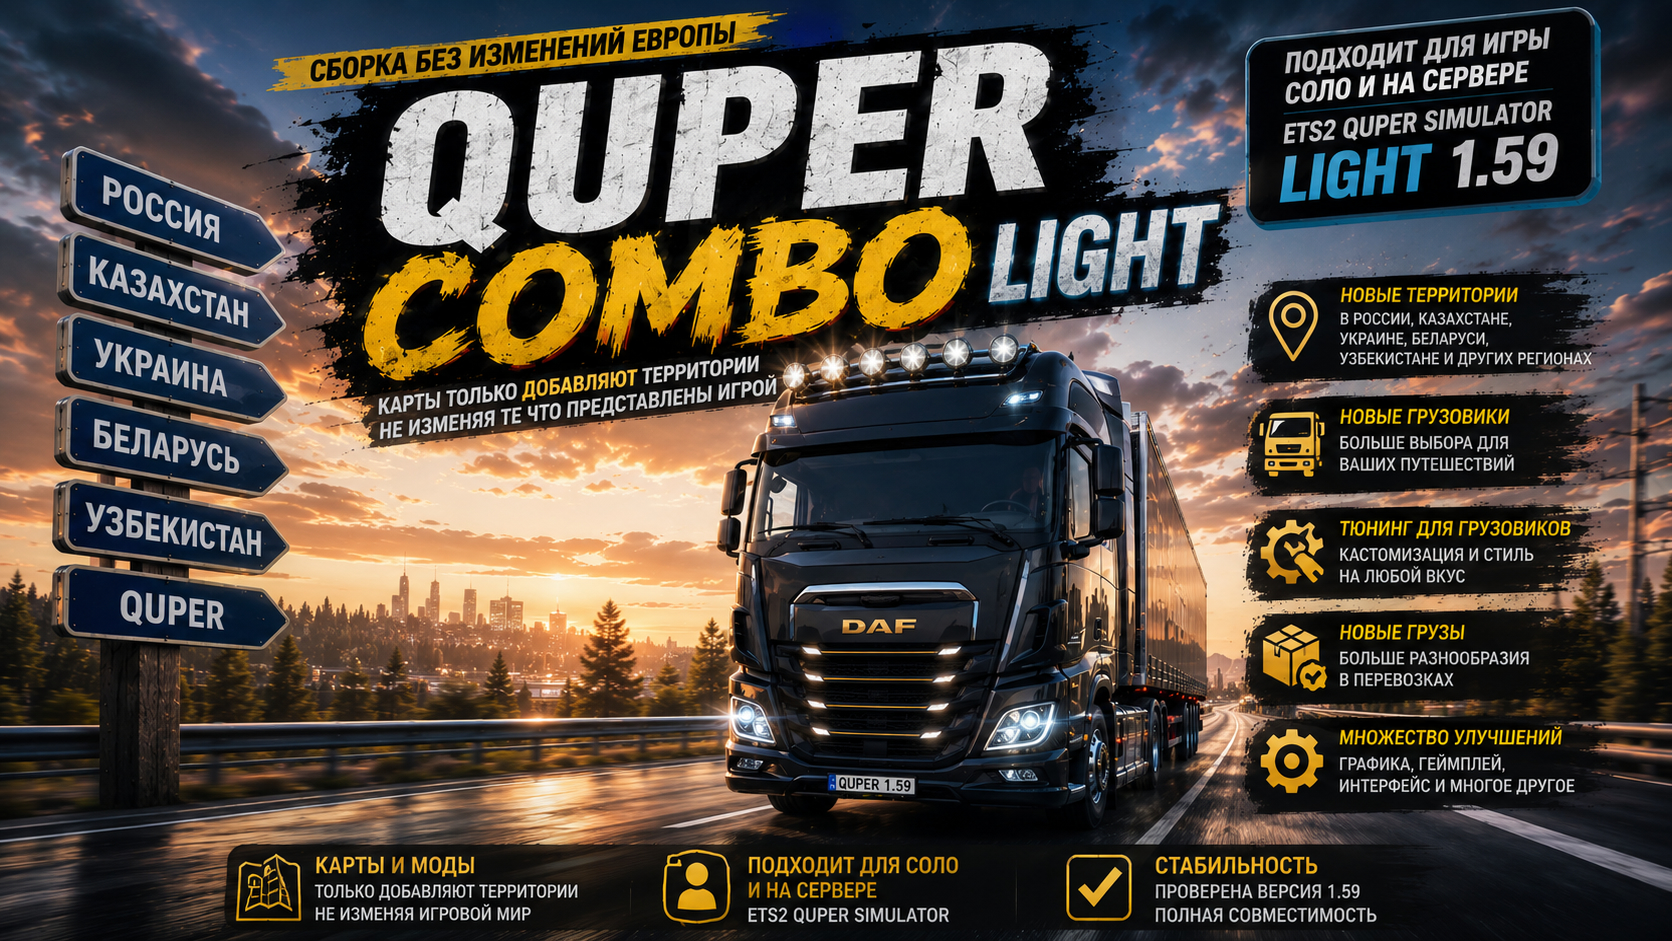
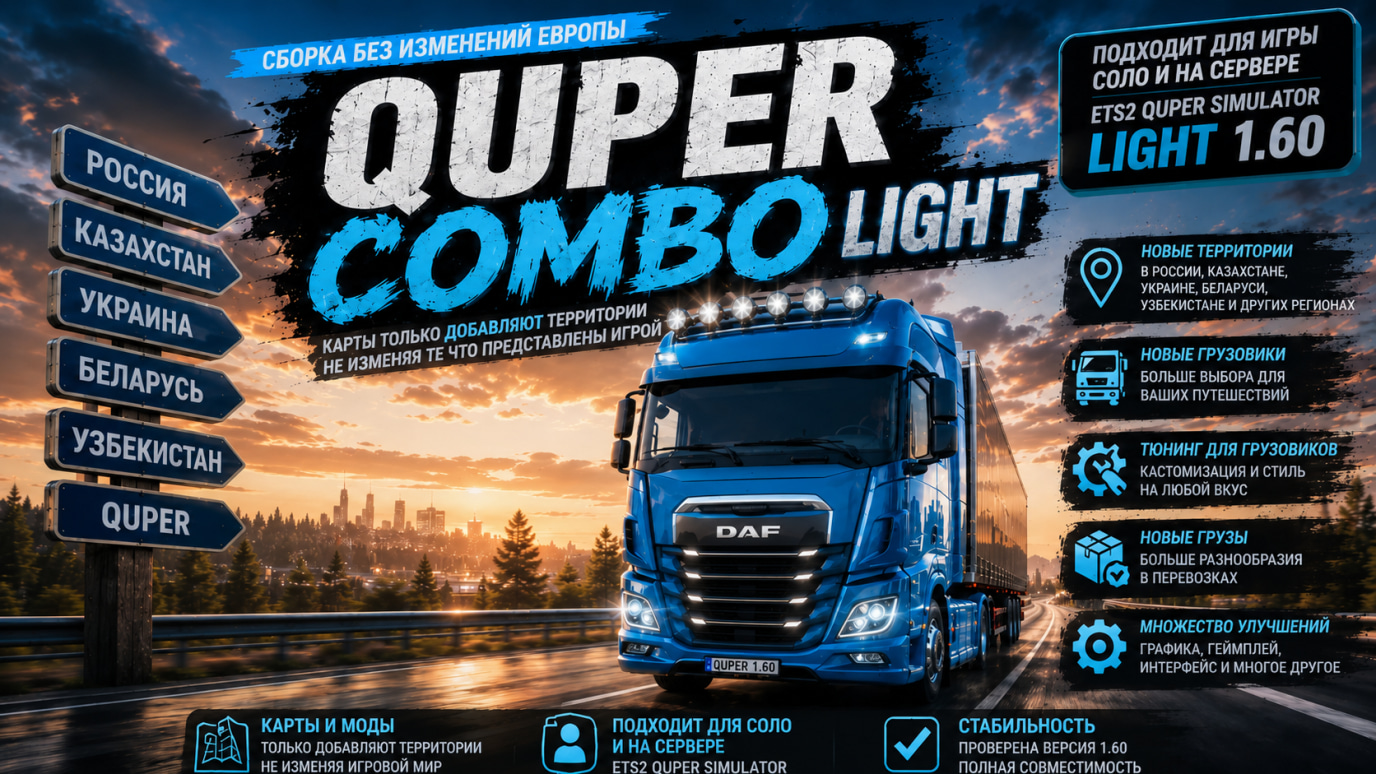
upd

diff --git a/src/data/combos/v1.60.js b/src/data/combos/v1.60.js
@@ -40,7 +40,18 @@ export const combos_v1_60 = [
     version: "server",
     date: "27.06.26",
     image_center: "img/combos/160/ets2-server/ets2-server-center.jpg",
-    profile: "https://sharemods.com/pyvwvdixnl6p/1.60_ETS2_SERVEER_MAIN.zip.html",
+    profile: "https://sharemods.com/miz4xas83514/1.60_ETS2_SERVER_MAIN.zip.html",
+  },
+    {
+    id: "ets2-server-light-map-160",
+    tags: ["ets2", "server", "convoy"],
+    title: "ETS2 SERVER LIGHT COMBO",
+    preview: "img/combos/160/ets2-server-light/ets2-server-light-preview.jpg",
+    version_game: "1.60",
+    version: "server",
+    date: "30.06.26",
+    image_center: "img/combos/160/ets2-server-light/ets2-server-light-center.jpg",
+    profile: "https://sharemods.com/waywkk94jt8g/1.60_ETS2_SERVER_LIGHT.zip.html",
   },
   {
     id: "gold-russia-map-160",
